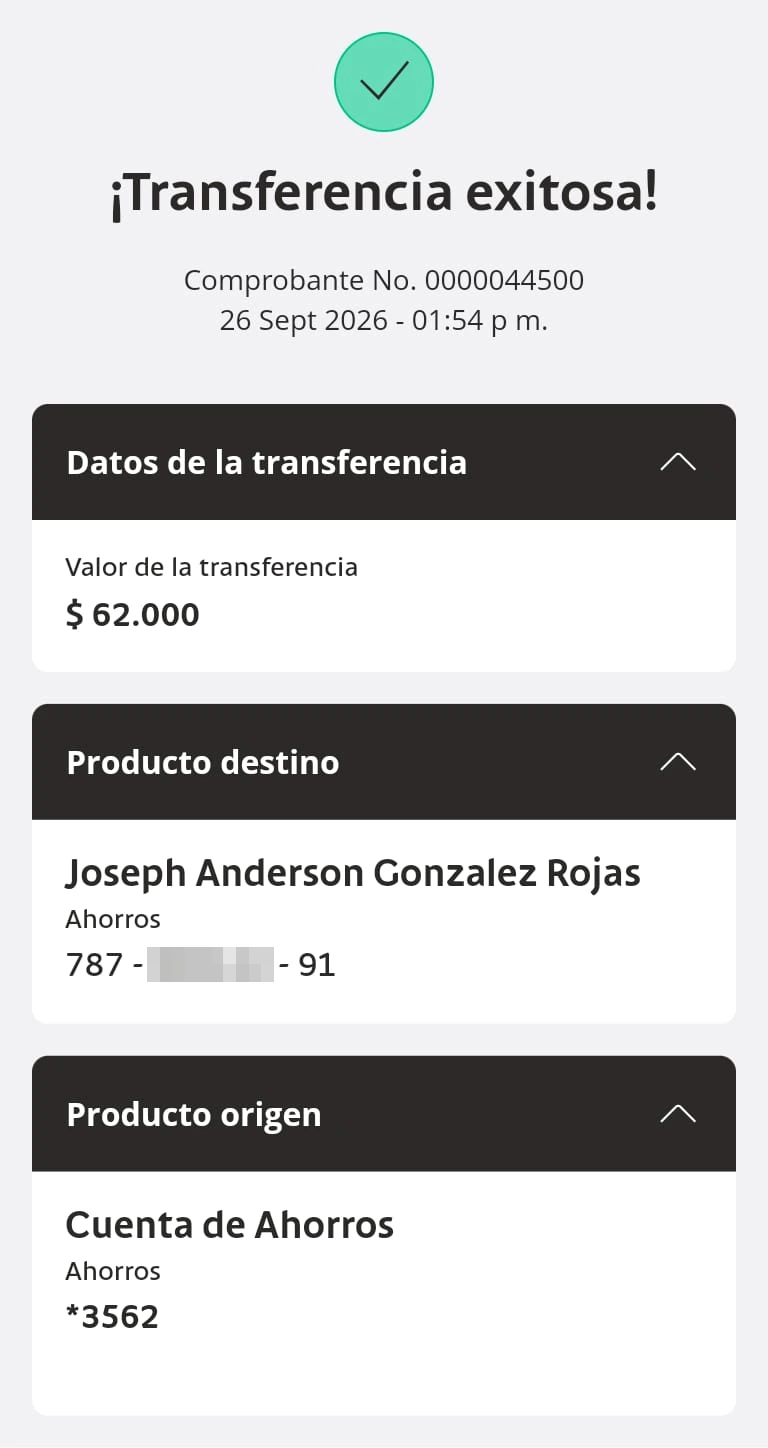
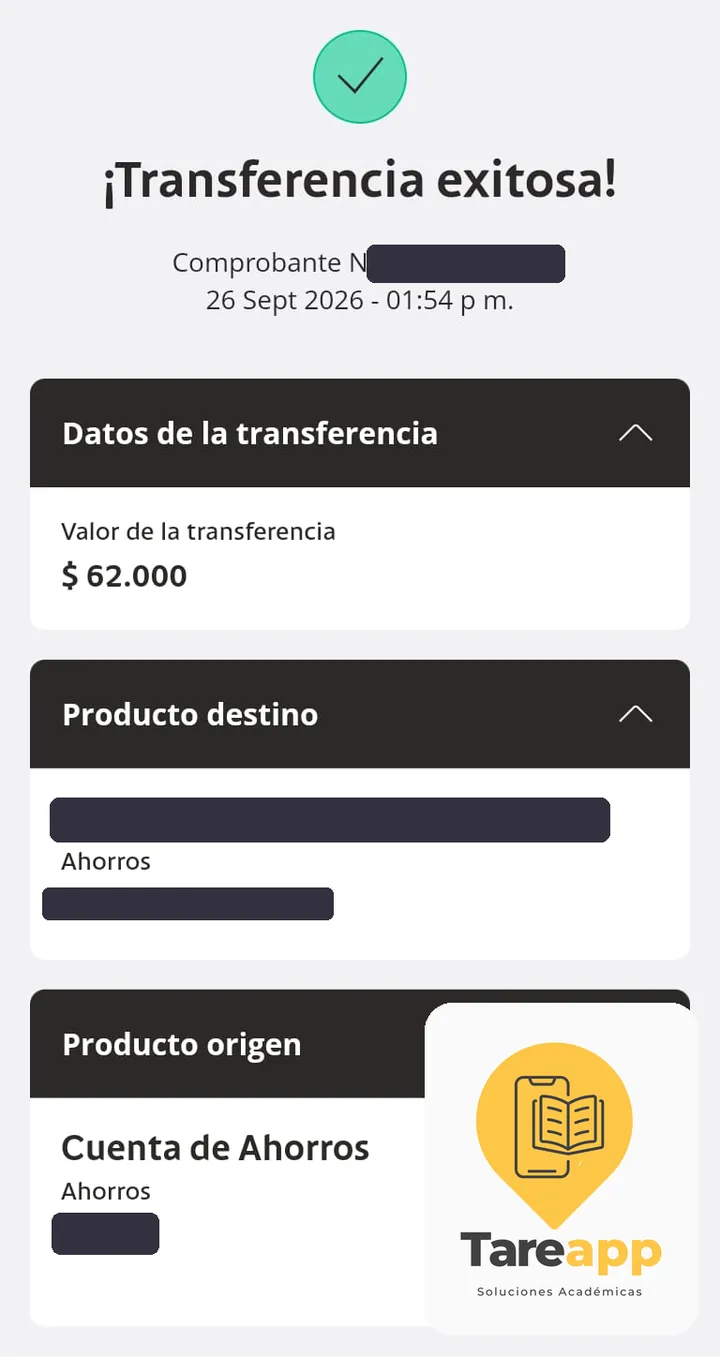
Evidencias: 42 comprobantes de Colombia por mes, con nuestros nombres y los datos de cada estudiante tachados, y las notas en la escala de Colombia (Joseph 23-oct-2026: 'agregar la mayor cantidad de pagos que tengamos .. tachar los nombres de nosotros ... en todos los comprobantes ... arreglar las n

diff --git a/referencias/index.html b/referencias/index.html
@@ -67,6 +67,17 @@
     .op-name { font-weight:800; color:var(--text); }
     .op-tag { display:inline-block; padding:3px 10px; border-radius:999px; background:var(--brand3); color:var(--brand-ink); border:1px solid rgba(229,181,46,.25); font-weight:700; font-size:12px; }
     .op-nota { max-width:720px; margin:0 auto clamp(40px,6vw,64px); text-align:center; font-size:13px; color:var(--muted); line-height:1.5; }
+    /* Comprobantes por mes, como en Chile (23-oct-2026) */
+    .ref-meses { max-width:980px; margin:6px auto clamp(40px,6vw,64px); }
+    .ref-anio { font-size:22px; font-weight:800; margin:26px 6px 10px; color:var(--text); }
+    .ref-mes { background:var(--card,#fff); border:1px solid rgba(0,0,0,.08); border-radius:16px; margin:10px 0; box-shadow:var(--shadow-sm); overflow:hidden; }
+    .ref-mes > summary { list-style:none; cursor:pointer; display:flex; align-items:center; gap:12px; padding:16px 20px; font-weight:700; font-size:17px; color:var(--text); }
+    .ref-mes > summary::-webkit-details-marker { display:none; }
+    .ref-mes > summary::after { content:"+"; font-size:24px; line-height:1; color:var(--brand-ink); width:24px; text-align:center; }
+    .ref-mes[open] > summary::after { content:"\2212"; }
+    .ref-mes__n { margin-left:auto; font-weight:600; font-size:14px; color:var(--muted); }
+    .ref-mes .ev-grid { max-width:none; margin:2px 16px 18px; grid-template-columns:repeat(auto-fill,minmax(190px,1fr)); gap:14px; }
+    @media(max-width:560px){ .ref-mes .ev-grid{ grid-template-columns:repeat(2,minmax(0,1fr)); gap:10px; margin:2px 10px 14px; } .ref-mes > summary{ padding:14px 16px; font-size:16px; } }
   </style>
   <!-- AGS-GEO (Dev Central) — no editar a mano: lo genera herramientas/geo_webs.py -->
   <link rel="canonical" href="https://tareapp.colombia.ags-ed.com/referencias/" />
@@ -240,13 +251,71 @@
       </div>
       <!-- EVIDENCIAS-CABECERA:FIN -->
 
-        <div class="ref-pagos">
+      <!-- PAGOS:INICIO (23-oct-2026: comprobantes reales con los datos tapados, tambien los nuestros; kit _scratch\evidencias_co_ar_20261023) -->
+      <div class="ref-pagos">
         <h2>Pagos que ya recibimos en Colombia</h2>
       </div>
-
-      <div class="ev-grid">
-        <button class="ev-item" type="button" aria-label="Ver comprobante 1"><img src="/assets/referencias/ref-1.webp" loading="lazy" decoding="async" alt="Comprobante de pago de un cliente de Tareapp en Colombia" /></button>
+      <div class="ref-meses">
+        <h2 class="ref-anio">2026</h2>
+        <details class="ref-mes" open>
+          <summary><span>Octubre 2026</span><span class="ref-mes__n">18 comprobantes</span></summary>
+          <div class="ev-grid">
+            <button class="ev-item" type="button" aria-label="Ver comprobante 1 de octubre 2026"><img src="/assets/referencias/meses/2026-10/ref-202610-01.webp" width="720" height="1357" loading="lazy" decoding="async" alt="Comprobante de pago de $50.000 a Tareapp, octubre 2026" /></button>
+            <button class="ev-item" type="button" aria-label="Ver comprobante 2 de octubre 2026"><img src="/assets/referencias/meses/2026-10/ref-202610-02.webp" width="720" height="1476" loading="lazy" decoding="async" alt="Comprobante de pago de $48.000 a Tareapp, octubre 2026" /></button>
+            <button class="ev-item" type="button" aria-label="Ver comprobante 3 de octubre 2026"><img src="/assets/referencias/meses/2026-10/ref-202610-03.webp" width="720" height="1357" loading="lazy" decoding="async" alt="Comprobante de pago de $35.000 a Tareapp, octubre 2026" /></button>
+            <button class="ev-item" type="button" aria-label="Ver comprobante 4 de octubre 2026"><img src="/assets/referencias/meses/2026-10/ref-202610-04.webp" width="720" height="1357" loading="lazy" decoding="async" alt="Comprobante de pago de $35.000 a Tareapp, octubre 2026" /></button>
+            <button class="ev-item" type="button" aria-label="Ver comprobante 5 de octubre 2026"><img src="/assets/referencias/meses/2026-10/ref-202610-05.webp" width="720" height="1357" loading="lazy" decoding="async" alt="Comprobante de pago de $35.000 a Tareapp, octubre 2026" /></button>
+            <button class="ev-item" type="button" aria-label="Ver comprobante 6 de octubre 2026"><img src="/assets/referencias/meses/2026-10/ref-202610-06.webp" width="720" height="1235" loading="lazy" decoding="async" alt="Comprobante de pago de $30.000 a Tareapp, octubre 2026" /></button>
+            <button class="ev-item" type="button" aria-label="Ver comprobante 7 de octubre 2026"><img src="/assets/referencias/meses/2026-10/ref-202610-07.webp" width="720" height="1476" loading="lazy" decoding="async" alt="Comprobante de pago de $25.000 a Tareapp, octubre 2026" /></button>
+            <button class="ev-item" type="button" aria-label="Ver comprobante 8 de octubre 2026"><img src="/assets/referencias/meses/2026-10/ref-202610-08.webp" width="720" height="1476" loading="lazy" decoding="async" alt="Comprobante de pago de $25.000 a Tareapp, octubre 2026" /></button>
+            <button class="ev-item" type="button" aria-label="Ver comprobante 9 de octubre 2026"><img src="/assets/referencias/meses/2026-10/ref-202610-09.webp" width="720" height="1235" loading="lazy" decoding="async" alt="Comprobante de pago de $25.000 a Tareapp, octubre 2026" /></button>
+            <button class="ev-item" type="button" aria-label="Ver comprobante 10 de octubre 2026"><img src="/assets/referencias/meses/2026-10/ref-202610-10.webp" width="720" height="1235" loading="lazy" decoding="async" alt="Comprobante de pago de $25.000 a Tareapp, octubre 2026" /></button>
+            <button class="ev-item" type="button" aria-label="Ver comprobante 11 de octubre 2026"><img src="/assets/referencias/meses/2026-10/ref-202610-11.webp" width="720" height="1476" loading="lazy" decoding="async" alt="Comprobante de pago de $25.000 a Tareapp, octubre 2026" /></button>
+            <button class="ev-item" type="button" aria-label="Ver comprobante 12 de octubre 2026"><img src="/assets/referencias/meses/2026-10/ref-202610-12.webp" width="720" height="1476" loading="lazy" decoding="async" alt="Comprobante de pago de $25.000 a Tareapp, octubre 2026" /></button>
+            <button class="ev-item" type="button" aria-label="Ver comprobante 13 de octubre 2026"><img src="/assets/referencias/meses/2026-10/ref-202610-13.webp" width="720" height="1235" loading="lazy" decoding="async" alt="Comprobante de pago de $25.000 a Tareapp, octubre 2026" /></button>
+            <button class="ev-item" type="button" aria-label="Ver comprobante 14 de octubre 2026"><img src="/assets/referencias/meses/2026-10/ref-202610-14.webp" width="720" height="1235" loading="lazy" decoding="async" alt="Comprobante de pago de $25.000 a Tareapp, octubre 2026" /></button>
+            <button class="ev-item" type="button" aria-label="Ver comprobante 15 de octubre 2026"><img src="/assets/referencias/meses/2026-10/ref-202610-15.webp" width="720" height="1212" loading="lazy" decoding="async" alt="Comprobante de pago de $25.000 a Tareapp, octubre 2026" /></button>
+            <button class="ev-item" type="button" aria-label="Ver comprobante 16 de octubre 2026"><img src="/assets/referencias/meses/2026-10/ref-202610-16.webp" width="720" height="1141" loading="lazy" decoding="async" alt="Comprobante de pago de $25.000 a Tareapp, octubre 2026" /></button>
+            <button class="ev-item" type="button" aria-label="Ver comprobante 17 de octubre 2026"><img src="/assets/referencias/meses/2026-10/ref-202610-17.webp" width="720" height="1560" loading="lazy" decoding="async" alt="Comprobante de pago de $17.000 a Tareapp, octubre 2026" /></button>
+            <button class="ev-item" type="button" aria-label="Ver comprobante 18 de octubre 2026"><img src="/assets/referencias/meses/2026-10/ref-202610-18.webp" width="720" height="1560" loading="lazy" decoding="async" alt="Comprobante de pago de $17.000 a Tareapp, octubre 2026" /></button>
+          </div>
+        </details>
+        <details class="ref-mes">
+          <summary><span>Septiembre 2026</span><span class="ref-mes__n">18 comprobantes</span></summary>
+          <div class="ev-grid">
+            <button class="ev-item" type="button" aria-label="Ver comprobante 1 de septiembre 2026"><img src="/assets/referencias/meses/2026-09/ref-202609-01.webp" width="720" height="1444" loading="lazy" decoding="async" alt="Comprobante de pago de $170.000 a Tareapp, septiembre 2026" /></button>
+            <button class="ev-item" type="button" aria-label="Ver comprobante 2 de septiembre 2026"><img src="/assets/referencias/meses/2026-09/ref-202609-02.webp" width="720" height="1230" loading="lazy" decoding="async" alt="Comprobante de pago de $150.000 a Tareapp, septiembre 2026" /></button>
+            <button class="ev-item" type="button" aria-label="Ver comprobante 3 de septiembre 2026"><img src="/assets/referencias/meses/2026-09/ref-202609-03.webp" width="720" height="1497" loading="lazy" decoding="async" alt="Comprobante de pago de $110.000 a Tareapp, septiembre 2026" /></button>
+            <button class="ev-item" type="button" aria-label="Ver comprobante 4 de septiembre 2026"><img src="/assets/referencias/meses/2026-09/ref-202609-04.webp" width="720" height="1364" loading="lazy" decoding="async" alt="Comprobante de pago de $90.000 a Tareapp, septiembre 2026" /></button>
+            <button class="ev-item" type="button" aria-label="Ver comprobante 5 de septiembre 2026"><img src="/assets/referencias/meses/2026-09/ref-202609-05.webp" width="720" height="1364" loading="lazy" decoding="async" alt="Comprobante de pago de $70.000 a Tareapp, septiembre 2026" /></button>
+            <button class="ev-item" type="button" aria-label="Ver comprobante 6 de septiembre 2026"><img src="/assets/referencias/meses/2026-09/ref-202609-06.webp" width="720" height="1558" loading="lazy" decoding="async" alt="Comprobante de pago de $64.000 a Tareapp, septiembre 2026" /></button>
+            <button class="ev-item" type="button" aria-label="Ver comprobante 7 de septiembre 2026"><img src="/assets/referencias/meses/2026-09/ref-202609-07.webp" width="720" height="1357" loading="lazy" decoding="async" alt="Comprobante de pago de $63.000 a Tareapp, septiembre 2026" /></button>
+            <button class="ev-item" type="button" aria-label="Ver comprobante 8 de septiembre 2026"><img src="/assets/referencias/meses/2026-09/ref-202609-08.webp" width="720" height="1357" loading="lazy" decoding="async" alt="Comprobante de pago de $62.000 a Tareapp, septiembre 2026" /></button>
+            <button class="ev-item" type="button" aria-label="Ver comprobante 9 de septiembre 2026"><img src="/assets/referencias/meses/2026-09/ref-202609-09.webp" width="720" height="1411" loading="lazy" decoding="async" alt="Comprobante de pago de $60.000 a Tareapp, septiembre 2026" /></button>
+            <button class="ev-item" type="button" aria-label="Ver comprobante 10 de septiembre 2026"><img src="/assets/referencias/meses/2026-09/ref-202609-10.webp" width="720" height="1472" loading="lazy" decoding="async" alt="Comprobante de pago de $50.000 a Tareapp, septiembre 2026" /></button>
+            <button class="ev-item" type="button" aria-label="Ver comprobante 11 de septiembre 2026"><img src="/assets/referencias/meses/2026-09/ref-202609-11.webp" width="720" height="1315" loading="lazy" decoding="async" alt="Comprobante de pago de $40.000 a Tareapp, septiembre 2026" /></button>
+            <button class="ev-item" type="button" aria-label="Ver comprobante 12 de septiembre 2026"><img src="/assets/referencias/meses/2026-09/ref-202609-12.webp" width="720" height="2210" loading="lazy" decoding="async" alt="Comprobante de pago de $40.000 a Tareapp, septiembre 2026" /></button>
+            <button class="ev-item" type="button" aria-label="Ver comprobante 13 de septiembre 2026"><img src="/assets/referencias/meses/2026-09/ref-202609-13.webp" width="720" height="1300" loading="lazy" decoding="async" alt="Comprobante de pago de $39.000 a Tareapp, septiembre 2026" /></button>
+            <button class="ev-item" type="button" aria-label="Ver comprobante 14 de septiembre 2026"><img src="/assets/referencias/meses/2026-09/ref-202609-14.webp" width="720" height="1304" loading="lazy" decoding="async" alt="Comprobante de pago de $39.000 a Tareapp, septiembre 2026" /></button>
+            <button class="ev-item" type="button" aria-label="Ver comprobante 15 de septiembre 2026"><img src="/assets/referencias/meses/2026-09/ref-202609-15.webp" width="720" height="1406" loading="lazy" decoding="async" alt="Comprobante de pago de $30.000 a Tareapp, septiembre 2026" /></button>
+            <button class="ev-item" type="button" aria-label="Ver comprobante 16 de septiembre 2026"><img src="/assets/referencias/meses/2026-09/ref-202609-16.webp" width="720" height="1406" loading="lazy" decoding="async" alt="Comprobante de pago de $20.000 a Tareapp, septiembre 2026" /></button>
+            <button class="ev-item" type="button" aria-label="Ver comprobante 17 de septiembre 2026"><img src="/assets/referencias/meses/2026-09/ref-202609-17.webp" width="720" height="1472" loading="lazy" decoding="async" alt="Comprobante de pago de $10.000 a Tareapp, septiembre 2026" /></button>
+            <button class="ev-item" type="button" aria-label="Ver comprobante 18 de septiembre 2026"><img src="/assets/referencias/meses/2026-09/ref-202609-18.webp" width="720" height="2210" loading="lazy" decoding="async" alt="Comprobante de pago de $10.000 a Tareapp, septiembre 2026" /></button>
+          </div>
+        </details>
+        <details class="ref-mes">
+          <summary><span>Agosto 2026</span><span class="ref-mes__n">6 comprobantes</span></summary>
+          <div class="ev-grid">
+            <button class="ev-item" type="button" aria-label="Ver comprobante 1 de agosto 2026"><img src="/assets/referencias/meses/2026-08/ref-202608-01.webp" width="720" height="1230" loading="lazy" decoding="async" alt="Comprobante de pago de $150.000 a Tareapp, agosto 2026" /></button>
+            <button class="ev-item" type="button" aria-label="Ver comprobante 2 de agosto 2026"><img src="/assets/referencias/meses/2026-08/ref-202608-02.webp" width="720" height="1411" loading="lazy" decoding="async" alt="Comprobante de pago de $47.000 a Tareapp, agosto 2026" /></button>
+            <button class="ev-item" type="button" aria-label="Ver comprobante 3 de agosto 2026"><img src="/assets/referencias/meses/2026-08/ref-202608-03.webp" width="720" height="1472" loading="lazy" decoding="async" alt="Comprobante de pago de $40.000 a Tareapp, agosto 2026" /></button>
+            <button class="ev-item" type="button" aria-label="Ver comprobante 4 de agosto 2026"><img src="/assets/referencias/meses/2026-08/ref-202608-04.webp" width="720" height="1200" loading="lazy" decoding="async" alt="Comprobante de pago de $40.000 a Tareapp, agosto 2026" /></button>
+            <button class="ev-item" type="button" aria-label="Ver comprobante 5 de agosto 2026"><img src="/assets/referencias/meses/2026-08/ref-202608-05.webp" width="720" height="1497" loading="lazy" decoding="async" alt="Comprobante de pago de $40.000 a Tareapp, agosto 2026" /></button>
+            <button class="ev-item" type="button" aria-label="Ver comprobante 6 de agosto 2026"><img src="/assets/referencias/meses/2026-08/ref-202608-06.webp" width="720" height="1472" loading="lazy" decoding="async" alt="Comprobante de pago de $10.000 a Tareapp, agosto 2026" /></button>
+          </div>
+        </details>
       </div>
+      <!-- PAGOS:FIN -->
 
       <!-- EVIDENCIAS-OBRAS:INICIO -->
       <section class="ev-obras" id="trabajos" aria-labelledby="t-trabajos">
@@ -355,18 +424,18 @@
           </div>
         </section>
         <!-- OPINIONES:FIN -->
-      <!-- NOTAS:INICIO (18-oct-2026: citas TAL CUAL de clientes de Chile que nos contaron su nota; fuente y codigos en _scratch\evidencias_sin_logos_20261018\notas_evidencias.py) -->
+      <!-- NOTAS:INICIO (18-oct-2026: citas con la nota pasada a la escala del pais (23-oct-2026) de clientes de Chile que nos contaron su nota; fuente y codigos en _scratch\evidencias_sin_logos_20261018\notas_evidencias.py) -->
       <section class="nt-wrap" aria-labelledby="nt-titulo">
         <div class="nt-cab"><h2 id="nt-titulo">Notas que nos contaron en Chile</h2></div>
         <div class="nt-grid">
-          <figure class="nt-card" data-reveal><p class="nt-nota"><b>7</b><span>de 7</span></p><blockquote class="nt-text"><p>Nos sacamos un 7,0</p><p>En la grabación del podcast de geología</p><p>Muchas gracias</p></blockquote><figcaption class="nt-meta"><span class="nt-fecha">agosto de 2026</span><span class="nt-tag">Podcast de geología</span></figcaption></figure>
-          <figure class="nt-card" data-reveal><p class="nt-nota"><b>6,5</b><span>de 7</span></p><blockquote class="nt-text"><p>Hola, buenos días</p><p>Espero que estés bien, ayer recibí mi nota y tuve un 6.5</p><p>Muchas gracias</p></blockquote><figcaption class="nt-meta"><span class="nt-fecha">agosto de 2026</span><span class="nt-tag">Evaluación sumativa de Derecho laboral</span></figcaption></figure>
-          <figure class="nt-card" data-reveal><p class="nt-nota"><b>6,3</b><span>de 7</span></p><blockquote class="nt-text"><p>Me saque un 6.3 en el primer avance lo encontraron bien</p></blockquote><figcaption class="nt-meta"><span class="nt-fecha">octubre de 2025</span><span class="nt-tag">Proyecto de salud, primer avance</span></figcaption></figure>
-          <figure class="nt-card" data-reveal><p class="nt-nota"><b>7</b><span>de 7</span></p><blockquote class="nt-text"><p>Hola buenos días, quería comentarles que el profesor nos evaluó con nota 7</p><p>El trabajo que realizaron es sobresaliente</p><p>Muchas gracias y lo más probable que a futuro les siga pidiendo ayuda</p><p>100% recomendable</p></blockquote><figcaption class="nt-meta"><span class="nt-fecha">agosto de 2025</span><span class="nt-tag">Avance de tesis: introducción y marco teórico</span></figcaption></figure>
-          <figure class="nt-card" data-reveal><p class="nt-nota"><b>6,5</b><span>de 7</span></p><blockquote class="nt-text"><p>Muchas gracias por el trabajo realizado lo calificaron con nota 6,5✌</p><p>Pronto estaré solicitando sus servicios</p></blockquote><figcaption class="nt-meta"><span class="nt-fecha">julio de 2025</span><span class="nt-tag">Introducción a la minería</span></figcaption></figure>
-          <figure class="nt-card" data-reveal><p class="nt-nota"><b>6,7</b><span>de 7</span></p><blockquote class="nt-text"><p>Me saqué un 6.7</p><p>Muchas gracias</p></blockquote><figcaption class="nt-meta"><span class="nt-fecha">julio de 2025</span><span class="nt-tag">Ensayo académico</span></figcaption></figure>
-          <figure class="nt-card" data-reveal><p class="nt-nota"><b>7</b><span>de 7</span></p><blockquote class="nt-text"><p>Hola! Quería agradecerte. Hoy me subieron la nota y me saque un 7 ☺</p></blockquote><figcaption class="nt-meta"><span class="nt-fecha">diciembre de 2024</span><span class="nt-tag">Investigación cualitativa de mercados</span></figcaption></figure>
-          <figure class="nt-card" data-reveal><p class="nt-nota"><b>7</b><span>de 7</span></p><blockquote class="nt-text"><p>Holaa me entregaron la nota de portafolio y me fue súper Nota 7, muchas gracias</p></blockquote><figcaption class="nt-meta"><span class="nt-fecha">julio de 2024</span><span class="nt-tag">Portafolio de filosofía</span></figcaption></figure>
+          <figure class="nt-card" data-reveal><p class="nt-nota"><b>5</b><span>de 5</span></p><blockquote class="nt-text"><p>Nos sacamos un 5,0</p><p>En la grabación del podcast de geología</p><p>Muchas gracias</p></blockquote><figcaption class="nt-meta"><span class="nt-fecha">agosto de 2026</span><span class="nt-tag">Podcast de geología</span></figcaption></figure>
+          <figure class="nt-card" data-reveal><p class="nt-nota"><b>4,7</b><span>de 5</span></p><blockquote class="nt-text"><p>Hola, buenos días</p><p>Espero que estés bien, ayer recibí mi nota y tuve un 4.7</p><p>Muchas gracias</p></blockquote><figcaption class="nt-meta"><span class="nt-fecha">agosto de 2026</span><span class="nt-tag">Evaluación sumativa de Derecho laboral</span></figcaption></figure>
+          <figure class="nt-card" data-reveal><p class="nt-nota"><b>4,5</b><span>de 5</span></p><blockquote class="nt-text"><p>Me saque un 4.5 en el primer avance lo encontraron bien</p></blockquote><figcaption class="nt-meta"><span class="nt-fecha">octubre de 2025</span><span class="nt-tag">Proyecto de salud, primer avance</span></figcaption></figure>
+          <figure class="nt-card" data-reveal><p class="nt-nota"><b>5</b><span>de 5</span></p><blockquote class="nt-text"><p>Hola buenos días, quería comentarles que el profesor nos evaluó con nota 5</p><p>El trabajo que realizaron es sobresaliente</p><p>Muchas gracias y lo más probable que a futuro les siga pidiendo ayuda</p><p>100% recomendable</p></blockquote><figcaption class="nt-meta"><span class="nt-fecha">agosto de 2025</span><span class="nt-tag">Avance de tesis: introducción y marco teórico</span></figcaption></figure>
+          <figure class="nt-card" data-reveal><p class="nt-nota"><b>4,7</b><span>de 5</span></p><blockquote class="nt-text"><p>Muchas gracias por el trabajo realizado lo calificaron con nota 4,7✌</p><p>Pronto estaré solicitando sus servicios</p></blockquote><figcaption class="nt-meta"><span class="nt-fecha">julio de 2025</span><span class="nt-tag">Introducción a la minería</span></figcaption></figure>
+          <figure class="nt-card" data-reveal><p class="nt-nota"><b>4,8</b><span>de 5</span></p><blockquote class="nt-text"><p>Me saqué un 4.8</p><p>Muchas gracias</p></blockquote><figcaption class="nt-meta"><span class="nt-fecha">julio de 2025</span><span class="nt-tag">Ensayo académico</span></figcaption></figure>
+          <figure class="nt-card" data-reveal><p class="nt-nota"><b>5</b><span>de 5</span></p><blockquote class="nt-text"><p>Hola! Quería agradecerte. Hoy me subieron la nota y me saque un 5 ☺</p></blockquote><figcaption class="nt-meta"><span class="nt-fecha">diciembre de 2024</span><span class="nt-tag">Investigación cualitativa de mercados</span></figcaption></figure>
+          <figure class="nt-card" data-reveal><p class="nt-nota"><b>5</b><span>de 5</span></p><blockquote class="nt-text"><p>Holaa me entregaron la nota de portafolio y me fue súper Nota 5, muchas gracias</p></blockquote><figcaption class="nt-meta"><span class="nt-fecha">julio de 2024</span><span class="nt-tag">Portafolio de filosofía</span></figcaption></figure>
         </div>
       </section>
       <!-- NOTAS:FIN -->
